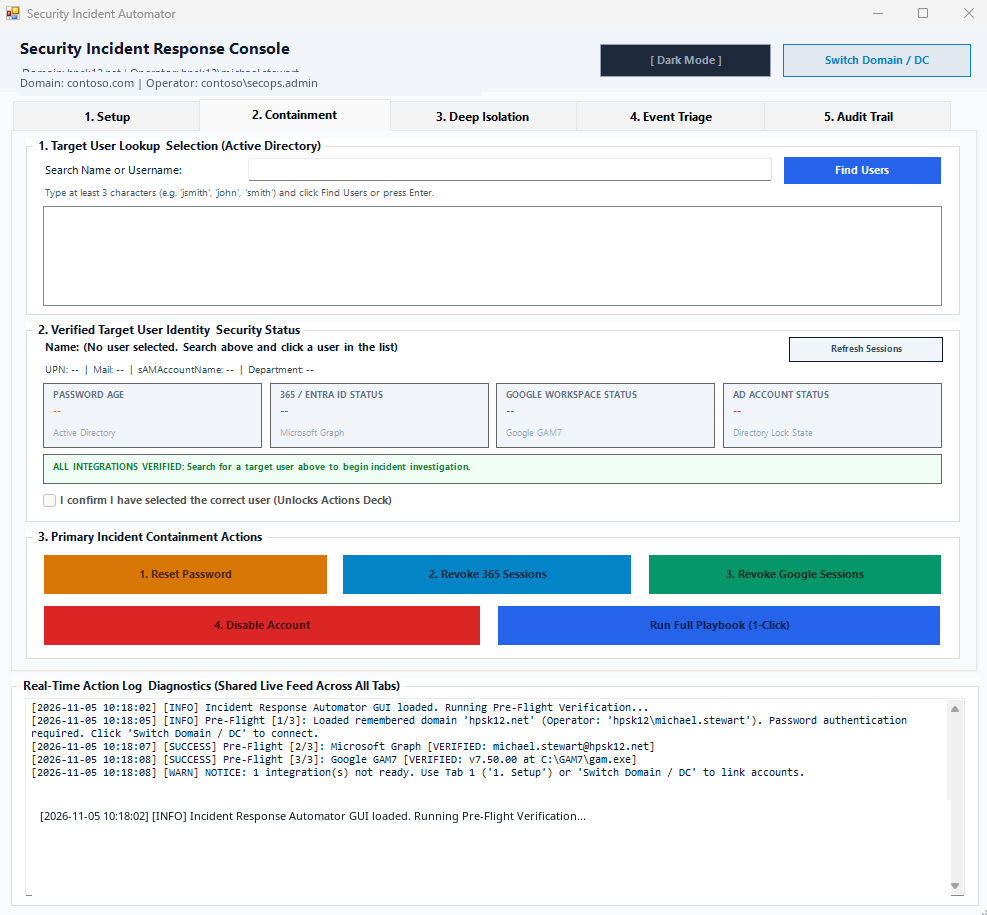
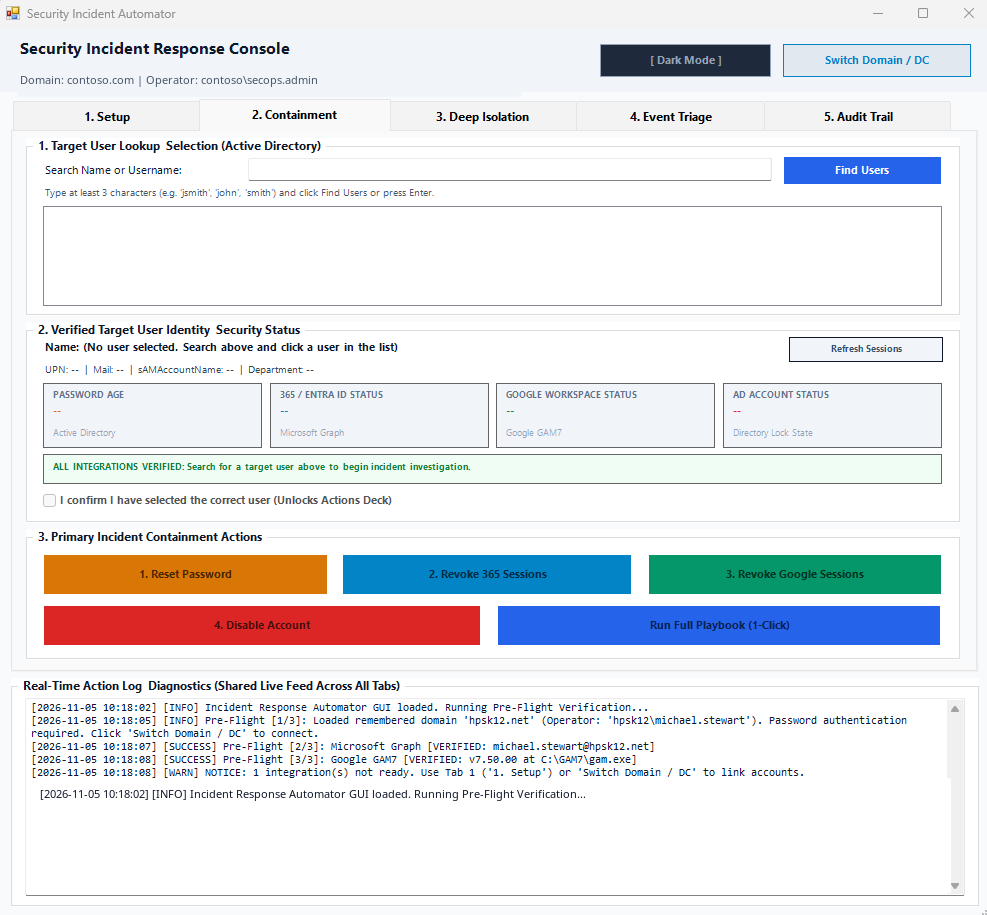
docs: update screenshot layout in README
Refactor screenshot presentation in the documentation to use tables for improved side-by-side comparison of dark and light mode views.

diff --git a/sanitize_light_screenshots.py b/sanitize_light_screenshots.py
@@ -1,0 +1,45 @@
+import subprocess
+import os
+
+images = [
+    ('public/assets/aistudio/image_a90a8aff.png', 'docs/screenshots/tab1-integrations-setup-light.png', True),
+    ('public/assets/aistudio/image_77e11a60.png', 'docs/screenshots/tab2-incident-containment-light.png', False),
+    ('public/assets/aistudio/image_fe314dbd.png', 'docs/screenshots/tab3-deep-isolation-mailbox-rules-light.png', False),
+    ('public/assets/aistudio/image_b89c8020.png', 'docs/screenshots/tab4-security-event-triage-light.png', False),
+    ('public/assets/aistudio/image_15c1cd51.png', 'docs/screenshots/tab5-forensic-audit-trail-light.png', False),
+]
+
+font_name = 'Noto-Sans-Regular'
+
+for src, dst, is_tab1 in images:
+    cmd = ['convert', src]
+    
+    # 1. Erase old subheader completely (y=68 to y=96)
+    cmd.extend([
+        '-fill', '#f1f5f9', '-draw', 'rectangle 18,68 520,96',
+        '-font', font_name, '-pointsize', '11', '-fill', '#475569',
+        '-draw', "text 20,84 'Domain: contoso.com | Operator: contoso\\secops.admin'"
+    ])
+
+    # 2. Erase Tab 1 Integration Status box completely (y=170 to y=285)
+    if is_tab1:
+        cmd.extend([
+            '-fill', '#ffffff', '-draw', 'rectangle 30,170 950,285',
+            '-font', font_name, '-pointsize', '11', '-fill', '#334155',
+            '-draw', "text 42,192 'Active Directory: Checking connection mode...'",
+            '-draw', "text 42,216 'Microsoft Graph SDK Auth: Checking...'",
+            '-draw', "text 42,240 'Google Apps Manager (GAM7): Checking...'"
+        ])
+
+    # 3. Erase Real-Time Action Log box completely (y=778 to y=892)
+    cmd.extend([
+        '-fill', '#ffffff', '-draw', 'rectangle 30,778 950,892',
+        '-font', font_name, '-pointsize', '11', '-fill', '#0f172a',
+        '-draw', "text 40,798 '[2026-11-05 10:18:02] [INFO] Incident Response Automator GUI loaded. Running Pre-Flight Verification...'"
+    ])
+
+    cmd.append(dst)
+    print(f"Processing {src} -> {dst}...")
+    subprocess.check_call(cmd)
+
+print("Sanitization completed successfully.")

diff --git a/README.md b/README.md
@@ -19,47 +19,72 @@ The console is organized into five structured tabs corresponding to standard inc
 ### Tab 1: Integrations & Pre-Flight Setup
 Live diagnostic status of all directory and cloud services, with automated one-click installation and verification scripts.
 
-**Dark Mode:**
-![Tab 1 - Integrations & Pre-Flight Setup (Dark Mode)](docs/screenshots/tab1-integrations-setup.png)
-
-**Light Mode:**
-![Tab 1 - Integrations & Pre-Flight Setup (Light Mode)](docs/screenshots/tab1-integrations-setup-light.png)
+<table>
+  <tr>
+    <td align="center"><b>Dark Mode</b></td>
+    <td align="center"><b>Light Mode</b></td>
+  </tr>
+  <tr>
+    <td><img src="docs/screenshots/tab1-integrations-setup.png" alt="Tab 1 Dark Mode" width="480"/></td>
+    <td><img src="docs/screenshots/tab1-integrations-setup-light.png" alt="Tab 1 Light Mode" width="480"/></td>
+  </tr>
+</table>
 
 ### Tab 2: Incident Containment Deck
 Multi-attribute Active Directory user search, live multi-provider session telemetry, safety lock verification gate, and primary containment actions.
 
-**Dark Mode:**
-![Tab 2 - Incident Containment Deck (Dark Mode)](docs/screenshots/tab2-incident-containment.png)
-
-**Light Mode:**
-![Tab 2 - Incident Containment Deck (Light Mode)](docs/screenshots/tab2-incident-containment-light.png)
+<table>
+  <tr>
+    <td align="center"><b>Dark Mode</b></td>
+    <td align="center"><b>Light Mode</b></td>
+  </tr>
+  <tr>
+    <td><img src="docs/screenshots/tab2-incident-containment.png" alt="Tab 2 Dark Mode" width="480"/></td>
+    <td><img src="docs/screenshots/tab2-incident-containment-light.png" alt="Tab 2 Light Mode" width="480"/></td>
+  </tr>
+</table>
 
 ### Tab 3: Deep Isolation & Mailbox Forwarding Rules Auditor
 Instant cloud sign-in blocking, Google Workspace account suspension, rogue MFA/OAuth grant eviction, Kerberos KDC hard-locking, and mailbox rule exfiltration scanner.
 
-**Dark Mode:**
-![Tab 3 - Deep Isolation & Mailbox Forwarding Rules Auditor (Dark Mode)](docs/screenshots/tab3-deep-isolation-mailbox-rules.png)
-
-**Light Mode:**
-![Tab 3 - Deep Isolation & Mailbox Forwarding Rules Auditor (Light Mode)](docs/screenshots/tab3-deep-isolation-mailbox-rules-light.png)
+<table>
+  <tr>
+    <td align="center"><b>Dark Mode</b></td>
+    <td align="center"><b>Light Mode</b></td>
+  </tr>
+  <tr>
+    <td><img src="docs/screenshots/tab3-deep-isolation-mailbox-rules.png" alt="Tab 3 Dark Mode" width="480"/></td>
+    <td><img src="docs/screenshots/tab3-deep-isolation-mailbox-rules-light.png" alt="Tab 3 Light Mode" width="480"/></td>
+  </tr>
+</table>
 
 ### Tab 4: Multi-Source Security Event Triage
 Live telemetry ingestion across Domain Controllers, Entra ID sign-in logs, and Google audit records with automated plain-English translation and response recommendations.
 
-**Dark Mode:**
-![Tab 4 - Multi-Source Security Event Triage (Dark Mode)](docs/screenshots/tab4-security-event-triage.png)
-
-**Light Mode:**
-![Tab 4 - Multi-Source Security Event Triage (Light Mode)](docs/screenshots/tab4-security-event-triage-light.png)
+<table>
+  <tr>
+    <td align="center"><b>Dark Mode</b></td>
+    <td align="center"><b>Light Mode</b></td>
+  </tr>
+  <tr>
+    <td><img src="docs/screenshots/tab4-security-event-triage.png" alt="Tab 4 Dark Mode" width="480"/></td>
+    <td><img src="docs/screenshots/tab4-security-event-triage-light.png" alt="Tab 4 Light Mode" width="480"/></td>
+  </tr>
+</table>
 
 ### Tab 5: Forensic Compliance Audit Trail
 Filterable, searchable audit logging with CSV field sanitization, recording every administrative operation locally for compliance, forensic verification, and insurance reporting.
 
-**Dark Mode:**
-![Tab 5 - Forensic Compliance Audit Trail (Dark Mode)](docs/screenshots/tab5-forensic-audit-trail.png)
-
-**Light Mode:**
-![Tab 5 - Forensic Compliance Audit Trail (Light Mode)](docs/screenshots/tab5-forensic-audit-trail-light.png)
+<table>
+  <tr>
+    <td align="center"><b>Dark Mode</b></td>
+    <td align="center"><b>Light Mode</b></td>
+  </tr>
+  <tr>
+    <td><img src="docs/screenshots/tab5-forensic-audit-trail.png" alt="Tab 5 Dark Mode" width="480"/></td>
+    <td><img src="docs/screenshots/tab5-forensic-audit-trail-light.png" alt="Tab 5 Light Mode" width="480"/></td>
+  </tr>
+</table>
 
 ---
 
